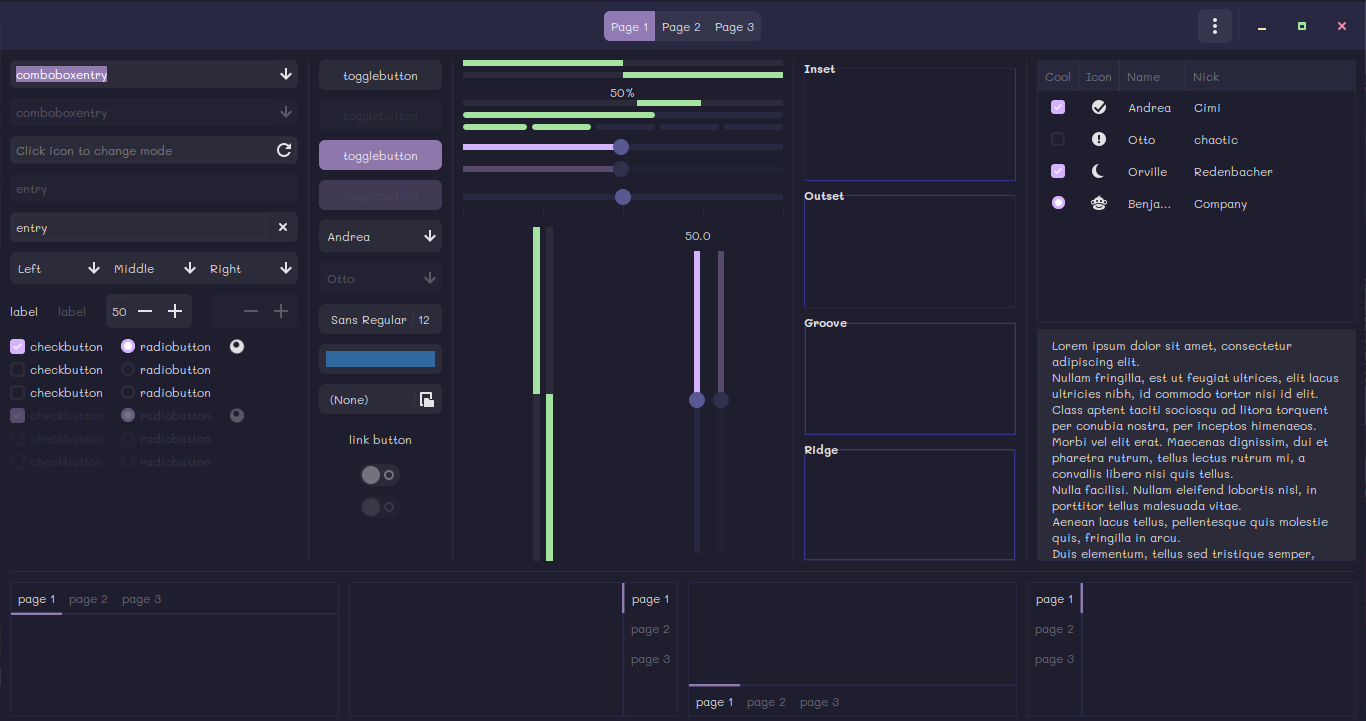
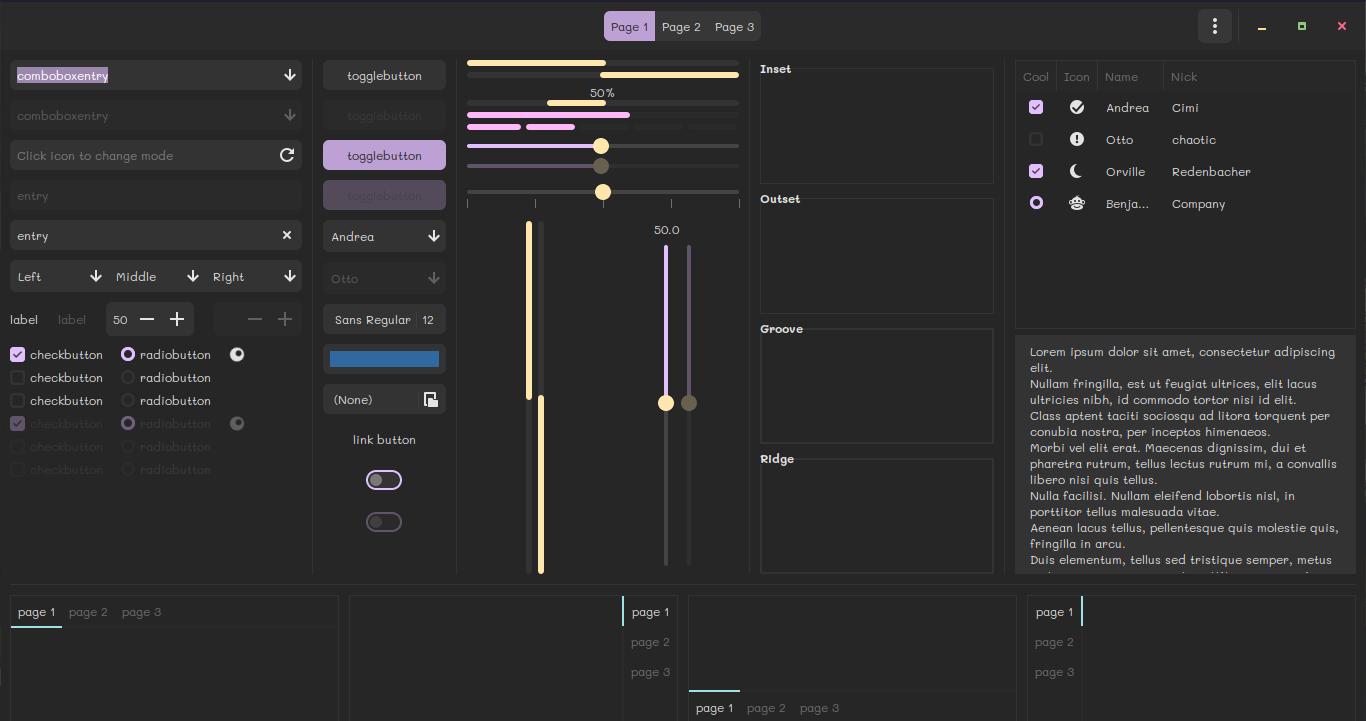
changed the rest of the colors and fixed something idk

diff --git a/scss/gtk-3.0/widgets/_switch.scss b/scss/gtk-3.0/widgets/_switch.scss
@@ -1,26 +1,30 @@
-@use 'sass:color';
 @use '../colors';
 @use '../config';
-
+@use 'sass:color';
 switch {
   background: colors.$white-weakest;
-  border-radius: 1em;
-  min-width: 3em;
-  border: config.$border-size solid transparent;
+  transition: all 75ms cubic-bezier(0, 0, 0.2, 1);
+  margin: 6px 0;
+  border: config.$border-size solid colors.$accent-normal;
+  border-radius: 9999px;
+  background-clip: border-box;
 
   slider {
     background: colors.$white-moderate;
-    border-radius: 100%;
-    min-width: 1.5em;
-    min-height: 1.5em;
+    transition: all 75ms cubic-bezier(0, 0, 0.2, 1);
+    min-width: 1em;
+    min-height: 1em;
+    margin: 2px;
+    border-radius: 9999px;
+    box-shadow: none;
   }
-
   :nth-child(2) { color: transparent; }
   :nth-child(3) { color: colors.$white-moderate; }
 
+
   &:checked {
-    background: color.change(colors.$accent-primary, $alpha: config.$tint-weak);
-    
+   background: color.change(colors.$accent-primary, $alpha: config.$tint-weak);
+
     slider {
       background: color.change(colors.$accent-primary, $alpha: config.$tint-strong);
     }
@@ -28,16 +32,24 @@ switch {
     :nth-child(2) { color: colors.$white-strong; }
     :nth-child(3) { color: transparent; }
   }
-
-  &:disabled { opacity: config.$disabled-opacity; }
+  &:disabled {
+    opacity:  config.$disabled-opacity;
+  }
 
   &:hover {
     slider {
       box-shadow: 0 0 0 config.$spacing-small colors.$white-weak;
     }
 
-    &:checked slider {
+  &:checked slider {
       box-shadow: 0 0 0 config.$spacing-small color.change(colors.$accent-primary, $alpha: config.$tint-weak);
     }
+    }  
+  image {
+   margin: -8px;
+    -gtk-icon-transform: scale(0);
   }
+
 }
+
+

diff --git a/scss/gtk-3.0/_colors.scss b/scss/gtk-3.0/_colors.scss
@@ -16,22 +16,22 @@ $black-moderate: rgba(40, 40, 40, 0.42);
 $black-weak: rgba(40, 40, 40, 0.15);
 $black-weakest: rgba(40, 40, 40, 0.06);
 
-$red-normal: rgb(243, 139, 168);
-$red-light:rgb(246, 173, 194);
-$orange-normal: rgb(250, 179, 135);
-$orange-light: rgb(251, 201, 171);
-$yellow-normal: rgb(249, 226, 	175);
-$yellow-light: rgb(250, 231, 191);
-$green-normal: rgb(166, 227, 161);
-$green-light: rgb(192, 235, 189);
+$red-normal: rgb(255, 103, 134);
+$red-light:rgb(255, 148, 170);
+$orange-normal: rgb(255, 166, 116);
+$orange-light: rgb(255, 189, 152);
+$yellow-normal: rgb(255, 222, 148);
+$yellow-light: rgb(255, 230, 173);
+$green-normal: rgb(146, 198, 122);
+$green-light: rgb(178, 215, 161);
 $cyan-normal: rgb(148, 226, 213);
 $cyan-light: rgb(188, 237, 229);
-$blue-normal: rgb(148, 187, 250);
-$blue-light: rgb(197, 218, 252);
-$accent-normal: #e7a9a9;
-$accent-light: #f2d1d1;
-$pink-normal: rgb(228, 205, 255);
-$pink-light: rgb(248, 216, 239);
+$blue-normal: rgb(159, 226, 230);
+$blue-light: rgb(187, 234, 237);
+$accent-normal: rgb(226, 191, 255);
+$accent-light: rgb(224, 199, 239);
+$pink-normal: rgb(255, 165, 248);
+$pink-light: rgb(255, 183, 249);
 
 $accent-primary: $accent-normal;
 $accent-secondary: $green-normal;

diff --git a/scss/gtk-3.0/widgets/_button.scss b/scss/gtk-3.0/widgets/_button.scss
@@ -10,13 +10,14 @@ button {
   border-radius: config.$radius;
 
   &:hover:not(:active) { background: colors.$white-weak; }
-  &:disabled { opacity: config.$disabled-button-opacity; }
+  &:disabled { opacity: config.$disabled-opacity; }
 
   &:checked, &.suggested-action {
-    background: color.change(colors.$accent-normal, $alpha: config.$tint-medium);
-    color: colors.$white-strong;
+    // tint medium(initially)
+    background: color.change(colors.$accent-normal, $alpha: config.$tint-strong);
+    color: colors.$black-strong;
     &:hover:not(:active) {
-      background: color.change(colors.$accent-light, $alpha: config.$tint-medium);
+      background: color.change(colors.$accent-light, $alpha: config.$tint-strong);
     }
   }
 

diff --git a/scss/gtk-3.0/widgets/_scale.scss b/scss/gtk-3.0/widgets/_scale.scss
@@ -7,11 +7,12 @@ scale {
 
     trough {
       background: colors.$white-weak;
+      border-radius: 1em;
       slider {
-        background: lighten(colors.$surface-moderate, 25%);
+        background: colors.$yellow-light;
         padding: 8px;
-        margin: -5px;
-        border-radius: 100%;
+        margin: -6px;
+        border-radius: 1em;
       }
       highlight {
         border-radius: 1em;

diff --git a/scss/gtk-3.0/widgets/_progressbar.scss b/scss/gtk-3.0/widgets/_progressbar.scss
@@ -1,11 +1,16 @@
 @use '../colors';
 
 progressbar {
-
   trough {
     background: colors.$white-weakest;
+     border-radius: 1em;
+     min-height: 6px;
+     min-width: 6px;
     progress {
-      background: colors.$accent-secondary;
+      background: colors.$yellow-light;
+      border-radius: 1em;
+      min-height: 6px;
+      min-width: 6px;
     }
   }
 }

diff --git a/scss/gtk-3.0/widgets/_list.scss b/scss/gtk-3.0/widgets/_list.scss
@@ -9,8 +9,8 @@ list {
     background: colors.$surface-strong;
     padding: config.$spacing-medium;
     &:hover {
-      background: color.change(colors.$accent-light, $alpha: config.$tint-medium);
-      color: #343434;
+      background: colors.$surface-weakest;
+      color: colors.$white-strong;
     }
   }
 

diff --git a/scss/gtk-3.0/widgets/_tabs.scss b/scss/gtk-3.0/widgets/_tabs.scss
@@ -25,7 +25,7 @@ tabs {
     color: colors.$white-moderate;
 
     header &:checked {
-      border-color: color.change(colors.$accent-primary, $alpha: config.$tint-medium);
+      border-color: colors.$blue-normal;
       color: colors.$white-strong;
     }
 

diff --git a/scss/gtk-3.0/widgets/_levelbar.scss b/scss/gtk-3.0/widgets/_levelbar.scss
@@ -6,7 +6,7 @@ levelbar {
       padding: 3px;
       border-radius: 3px;
 
-      &.filled { background: colors.$accent-secondary; }
+      &.filled { background: colors.$pink-light; }
       &.empty { background: colors.$surface-moderate; }
     }
   }

diff --git a/scss/gtk-3.0/widgets/_popover.scss b/scss/gtk-3.0/widgets/_popover.scss
@@ -2,7 +2,7 @@
 
 popover {
   background: colors.$surface-weakest;
-  box-shadow: 0 0 5px colors.$white-moderate;
+  box-shadow: 0 0 5px colors.$black-moderate;
   border-radius: 0.5em;
   padding: 0.5em;
 

diff --git a/scss/gtk-3.0/_config.scss b/scss/gtk-3.0/_config.scss
@@ -6,9 +6,8 @@ $tint-weak: 0.3;
 $tint-medium: 0.6;
 $tint-strong: 0.8;
 
-$border-size: 0.2em;
+$border-size: 2px;
 
 $radius: 0.5em;
 
 $disabled-opacity: 0.3;
-$disabled-button-opacity: 0.5;

diff --git a/scss/gtk-3.0/widgets/_iconview.scss b/scss/gtk-3.0/widgets/_iconview.scss
@@ -8,6 +8,7 @@ iconview {
   &:selected {
     color: colors.$white-strongest;
     background: colors.$accent-primary;
+    color: colors.$black-moderate;
     border-radius: 0.5em;
   }
 }

diff --git a/scss/gtk-3.0/widgets/_menubar.scss b/scss/gtk-3.0/widgets/_menubar.scss
@@ -9,6 +9,7 @@ menubar {
 
     &:hover {
       background: colors.$white-weakest;
+      color: colors.$white-strong;
     }
 
     check, radio {
